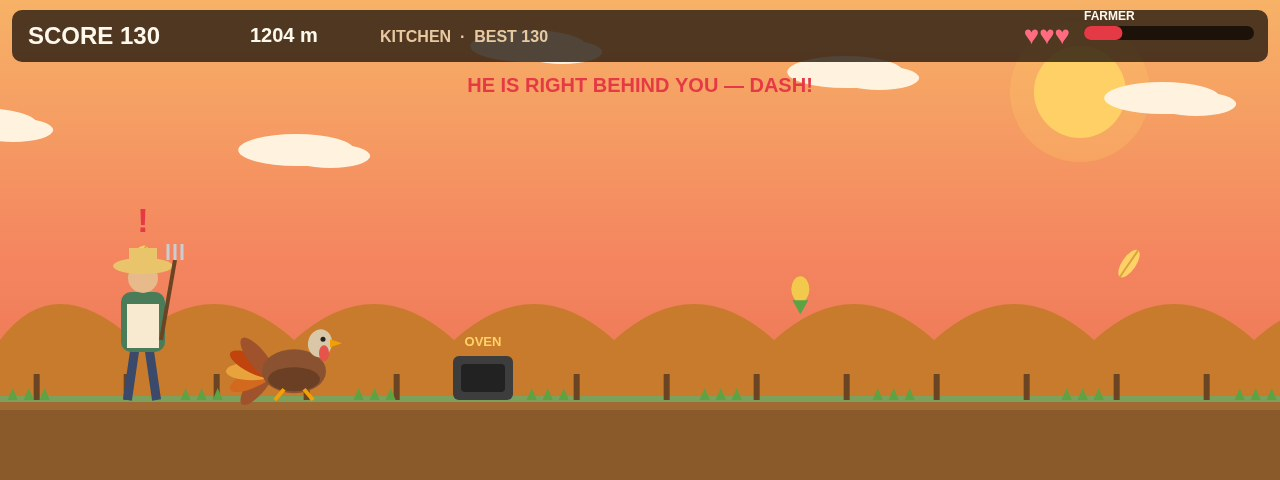
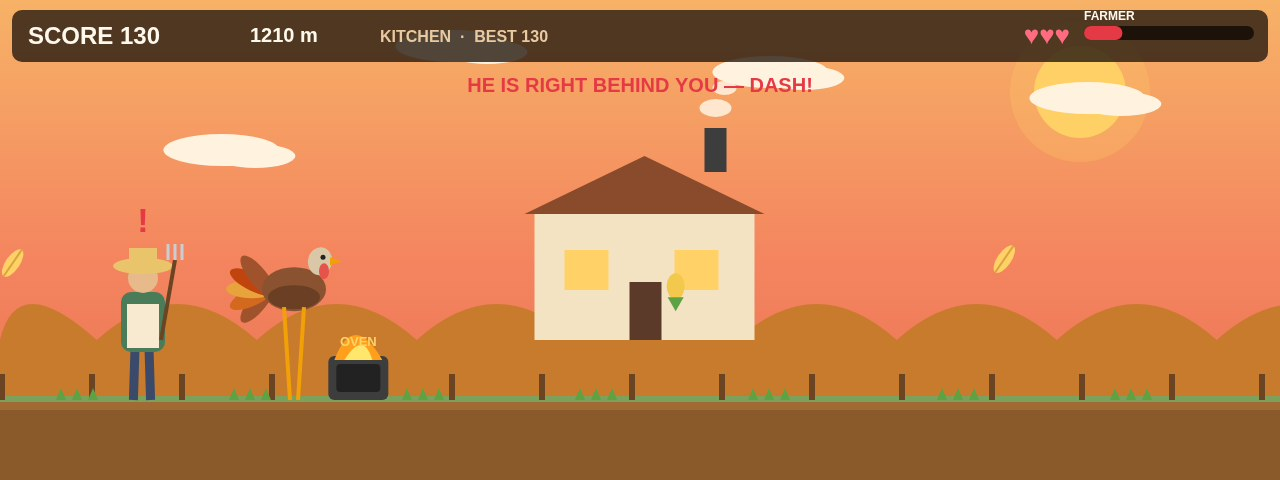
Renderer: tucked legs mid-jump; shots: catch any jump, kitchen wants a lit oven

diff --git a/game/src/shots.js b/game/src/shots.js
@@ -108,16 +108,23 @@ function livelyFrame(world, skill, seconds, wantFlame) {
     const turkey = world.state.turkey;
     let hazardNear = false;
     let flameNear = false;
+    let anythingNear = false;
     for (const item of world.state.obstacles) {
       if (!item.active) continue;
       const ahead = item.x - turkey.x;
-      if (ahead > -40 && ahead < 320) {
-        if (item.kind === KIND_FENCE || item.kind === KIND_PUMPKIN || item.kind === KIND_OVEN) hazardNear = true;
-        if (item.kind === KIND_OVEN && world.ovenFlameOn(item)) flameNear = true;
+      if (ahead > -40 && ahead < 400) {
+        anythingNear = true;
+        if (ahead < 320) {
+          if (item.kind === KIND_FENCE || item.kind === KIND_PUMPKIN || item.kind === KIND_OVEN) hazardNear = true;
+          if (item.kind === KIND_OVEN && world.ovenFlameOn(item)) flameNear = true;
+        }
       }
     }
-    if (!turkey.onGround && hazardNear && (!wantFlame || flameNear)) return;
-    if (wantFlame && flameNear && hazardNear) return;
+    if (wantFlame) {
+      if (flameNear && (hazardNear || !turkey.onGround)) return;
+    } else if (!turkey.onGround && anythingNear) {
+      return;
+    }
   }
 }
 /**
@@ -138,7 +145,7 @@ export function stageShot(name, world) {
     for (let index = 0; index < PLAY_SECONDS / STEP; index += 1) {
       if (world.step(STEP, autopilot(world.state, 0.7, world.ovenSafePass), false) & (EVENT_CAUGHT | EVENT_ESCAPED)) break;
     }
-    livelyFrame(world, 0.7, 3, false);
+    livelyFrame(world, 0.7, 5, false);
     return { screen: SCREEN_PLAY, best: world.state.score };
   }
   if (name === 'kitchen') {

diff --git a/game/src/render.js b/game/src/render.js
@@ -217,16 +217,25 @@ export function createRenderer(canvas) {
     ctx.beginPath();
     ctx.arc(x + 63, bodyY - 2, 2.5, 0, Math.PI * 2);
     ctx.fill();
-    // Legs, pumping while it runs.
+    // Legs: pumping while it runs, tucked while it jumps.
     ctx.strokeStyle = '#f2a007';
     ctx.lineWidth = 4;
-    const legSwing = turkey.onGround ? Math.sin(turkey.runPhase) * 10 : 6;
-    ctx.beginPath();
-    ctx.moveTo(x + 24, bodyY + 48);
-    ctx.lineTo(x + 24 + legSwing, FIELD.groundY);
-    ctx.moveTo(x + 44, bodyY + 48);
-    ctx.lineTo(x + 44 - legSwing, FIELD.groundY);
-    ctx.stroke();
+    if (turkey.onGround) {
+      const legSwing = Math.sin(turkey.runPhase) * 10;
+      ctx.beginPath();
+      ctx.moveTo(x + 24, bodyY + 48);
+      ctx.lineTo(x + 24 + legSwing, FIELD.groundY);
+      ctx.moveTo(x + 44, bodyY + 48);
+      ctx.lineTo(x + 44 - legSwing, FIELD.groundY);
+      ctx.stroke();
+    } else {
+      ctx.beginPath();
+      ctx.moveTo(x + 24, bodyY + 48);
+      ctx.lineTo(x + 30, bodyY + 60);
+      ctx.moveTo(x + 44, bodyY + 48);
+      ctx.lineTo(x + 38, bodyY + 60);
+      ctx.stroke();
+    }
   }
 
   function drawFarmer(state) {
